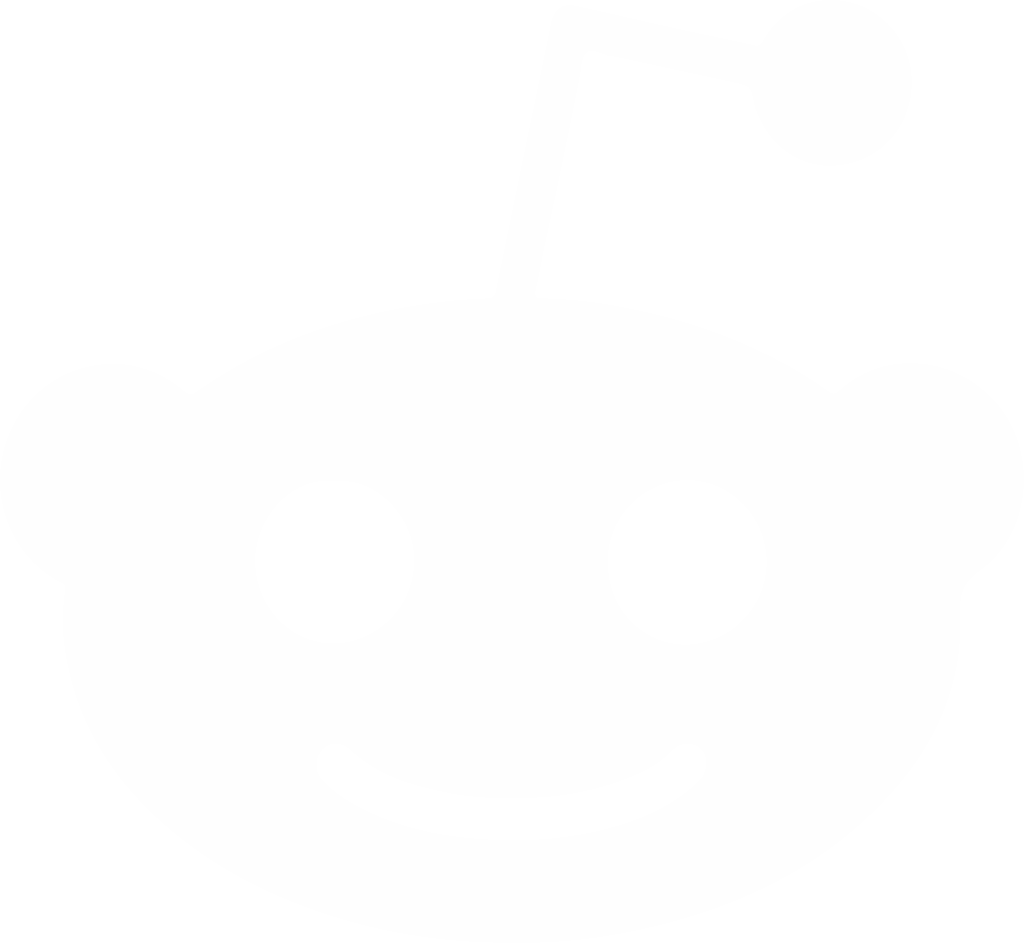
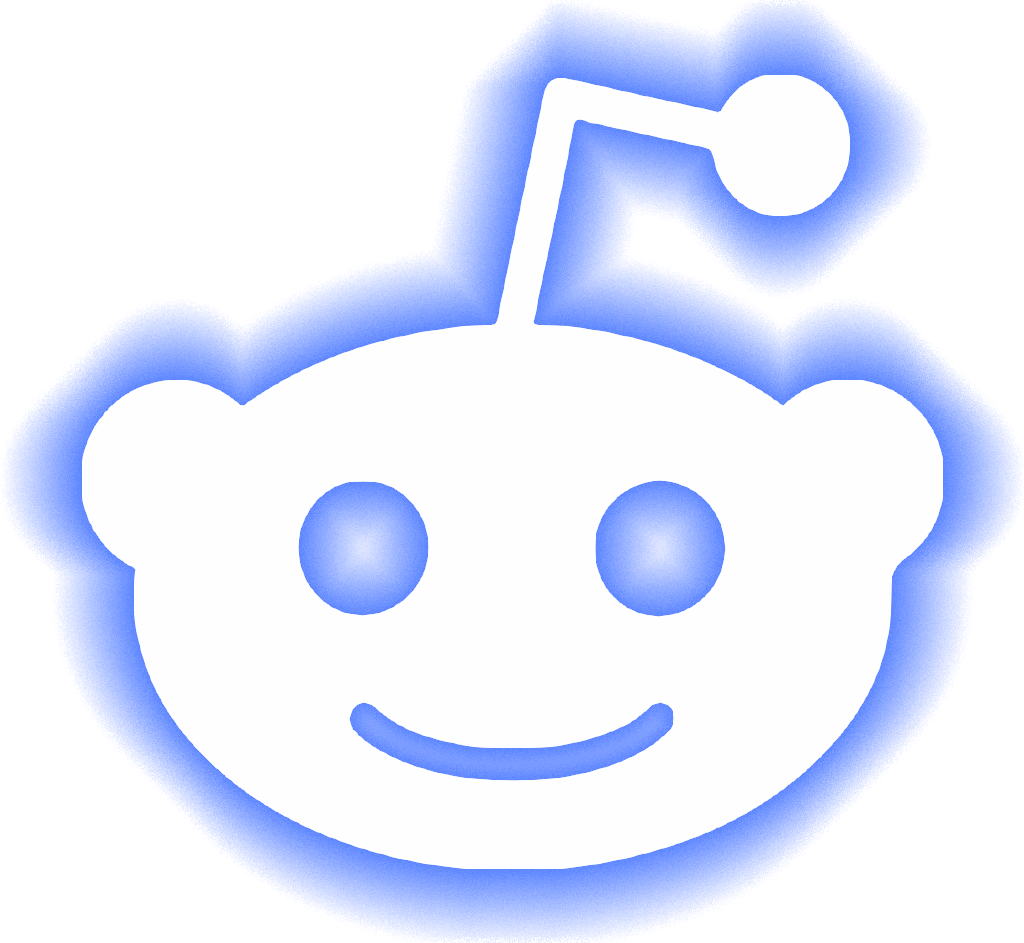
I want to commit suicide :(

diff --git a/main/Kategorie/socials.html b/main/Kategorie/socials.html
@@ -42,6 +42,9 @@
             <a href="https://github.com/Fuficek">
                 <img class="icon" src="../../IMG/github.png" alt="GITHUB">
             </a>
+            <a href="https://www.reddit.com/user/Fuficek49">
+                <img class="icon" src="../../IMG/reddit.png" alt="GITHUB">
+            </a>
         </div>
         </div>
     </div>
